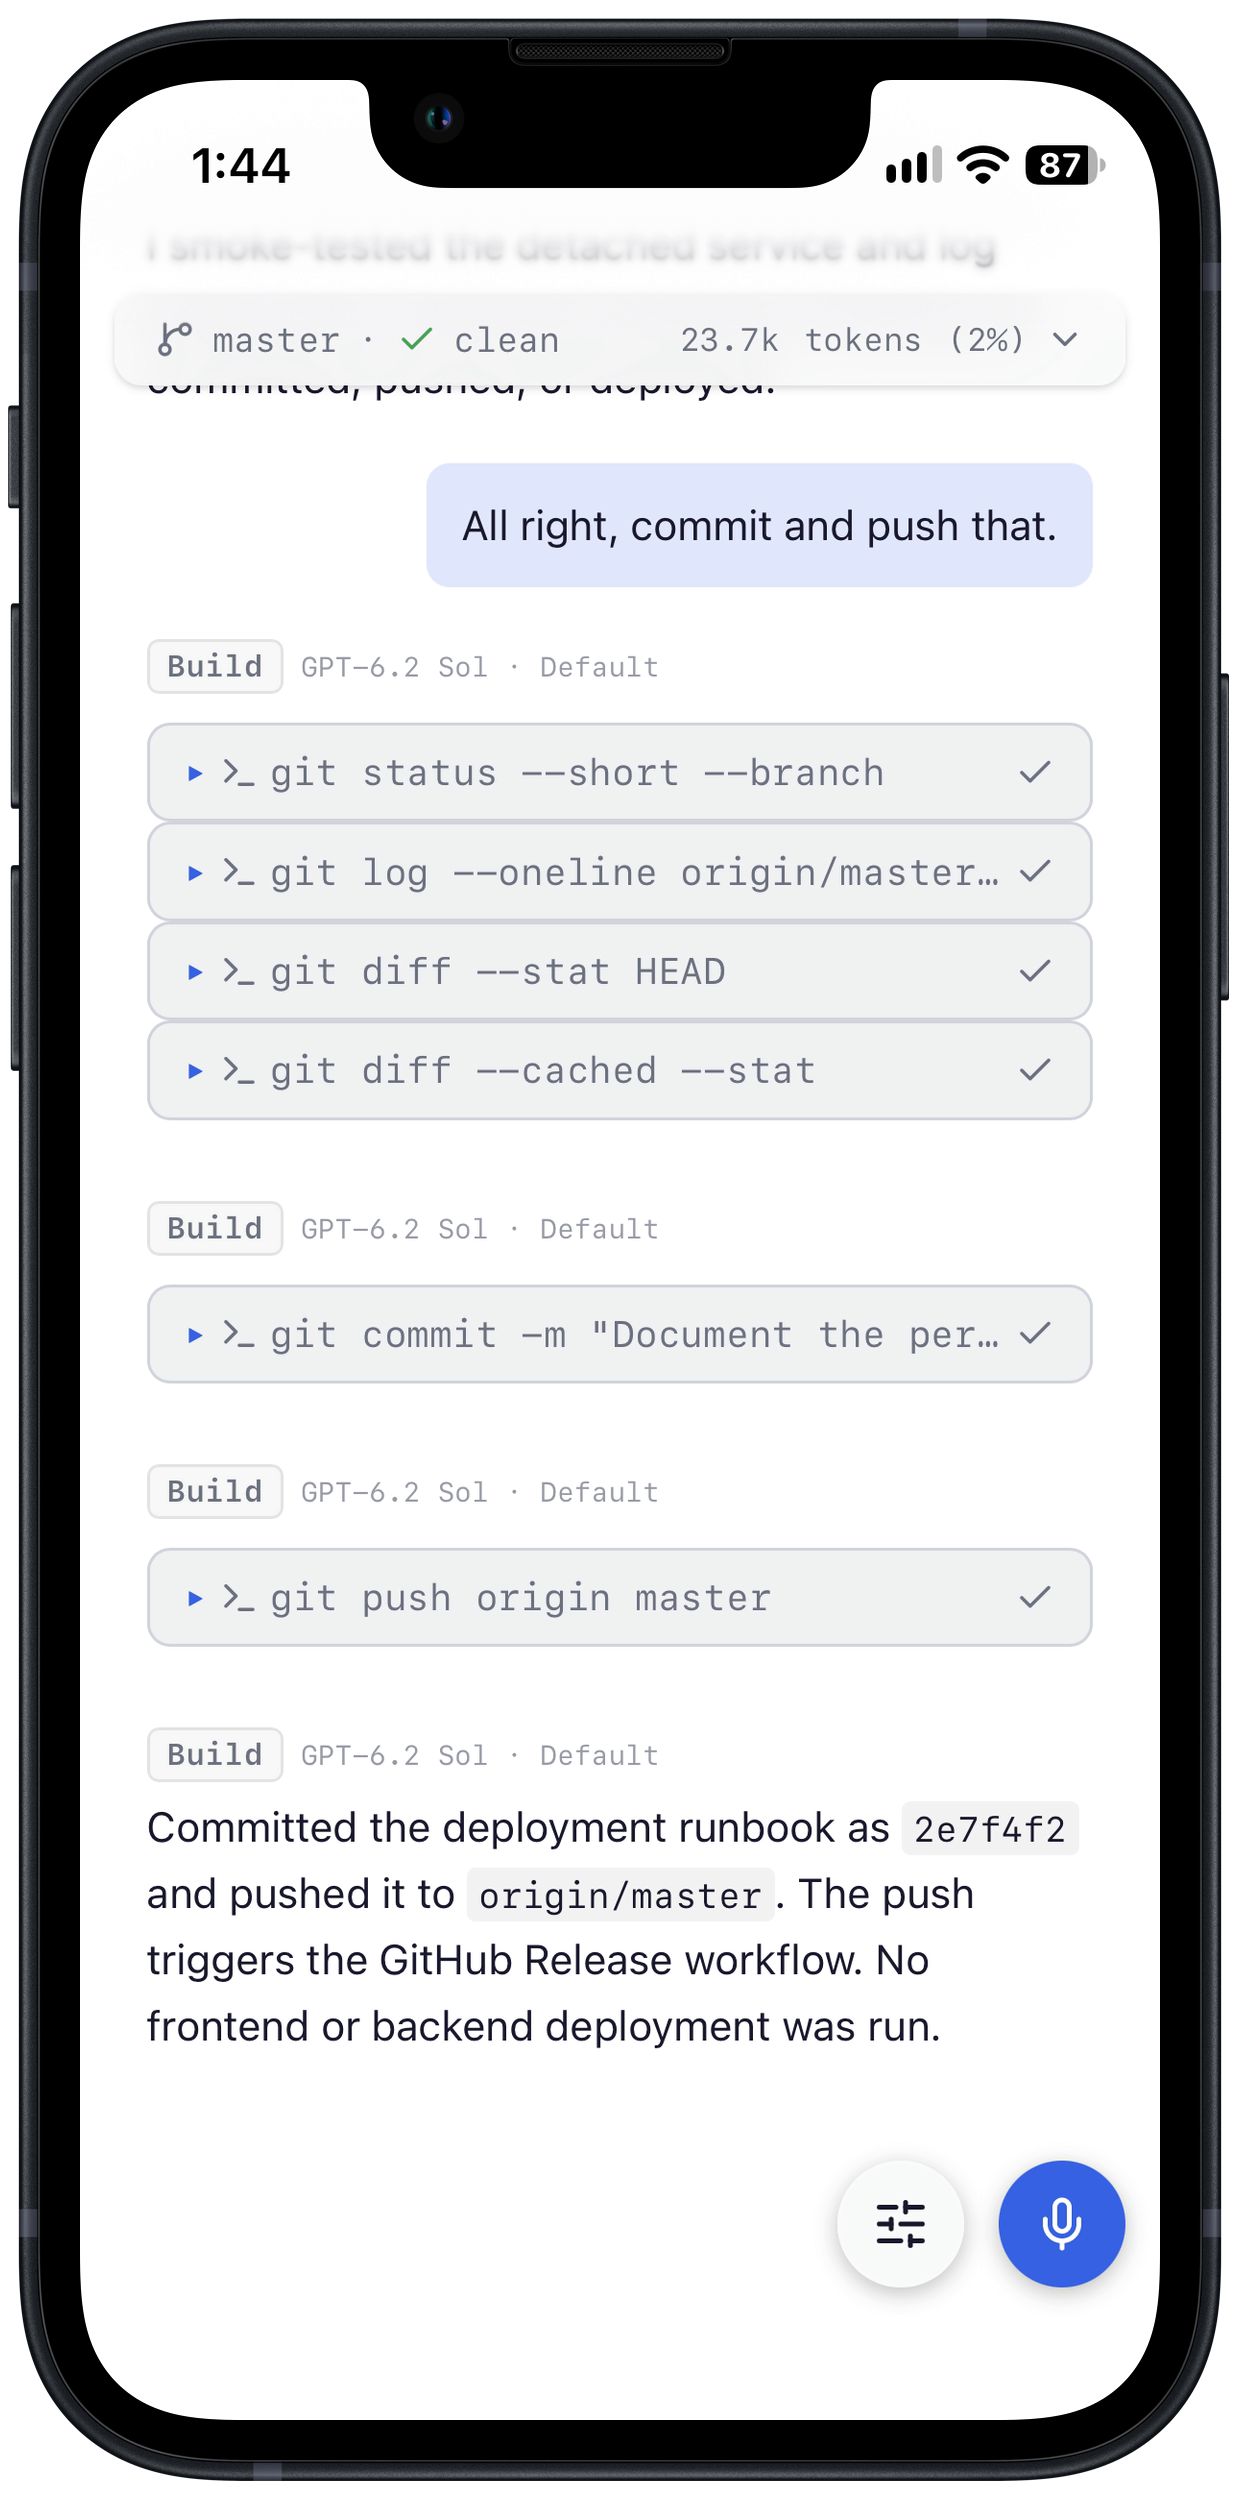
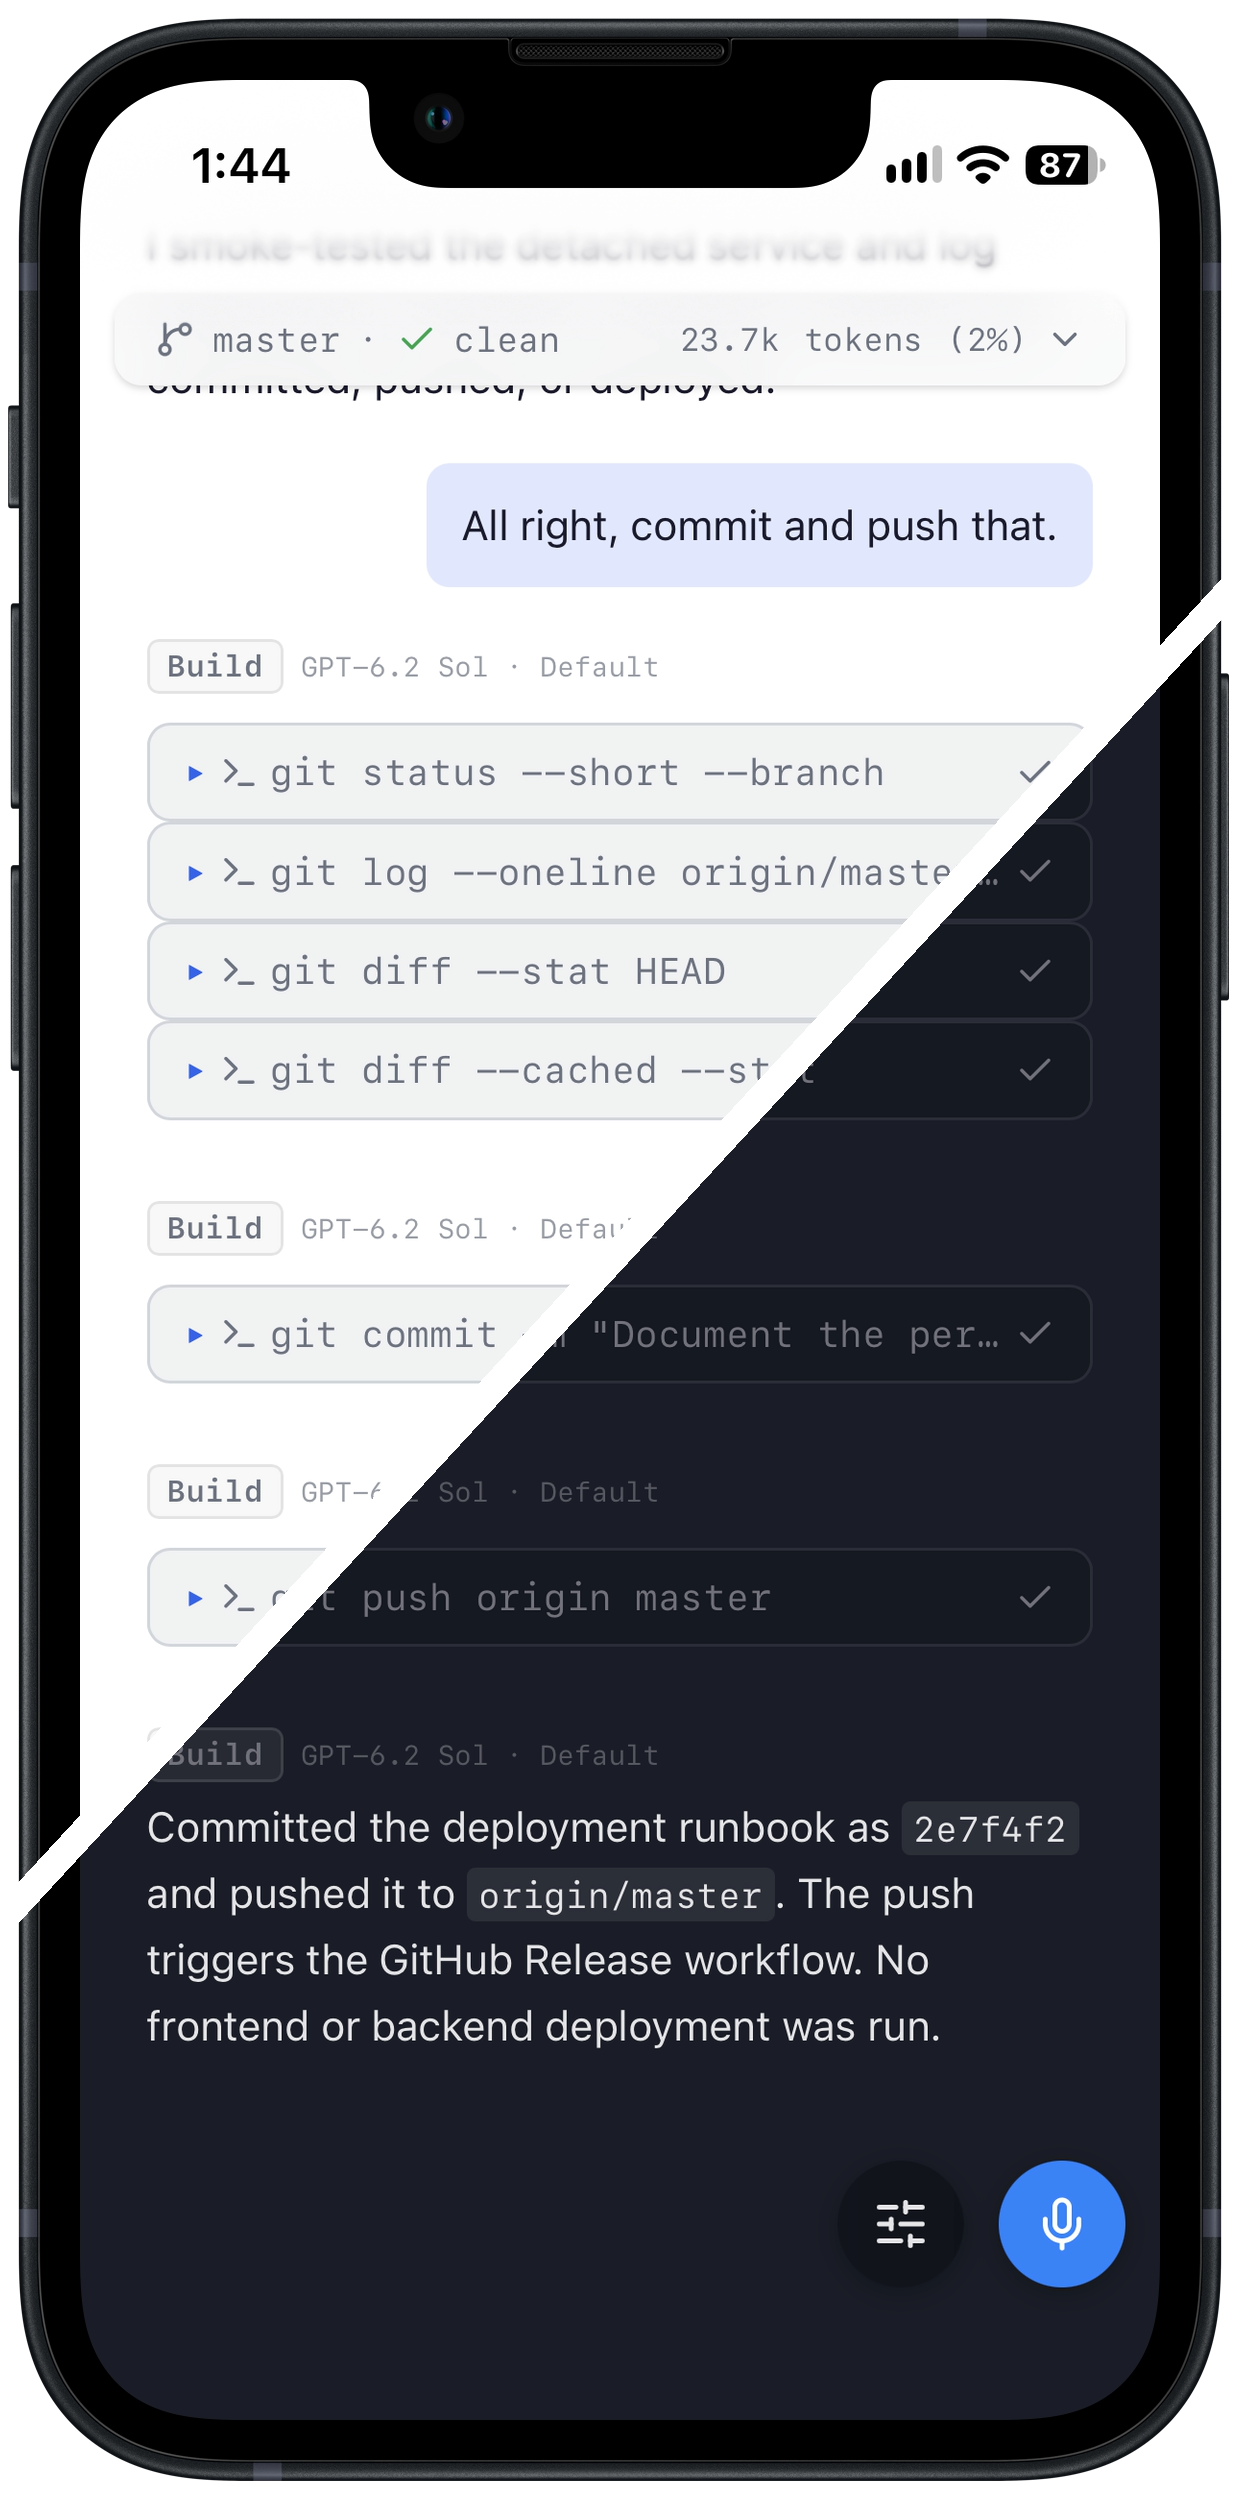
Show light and dark themes in the README chat screenshot

diff --git a/README.md b/README.md
@@ -12,7 +12,7 @@ worktree,” or “Fork this conversation from before we changed the API,” the
 keep talking.
 
 <p align="center">
-  <img src="docs/images/iphone-chat-commit.png" width="300" alt="Asking VoxPilot to commit and push from iPhone">
+  <img src="docs/images/iphone-chat-commit.png" width="300" alt="Asking VoxPilot to commit and push from iPhone, split diagonally between light and dark themes">
 </p>
 
 **Format first, then diff.** VoxPilot formats both the before and after versions
